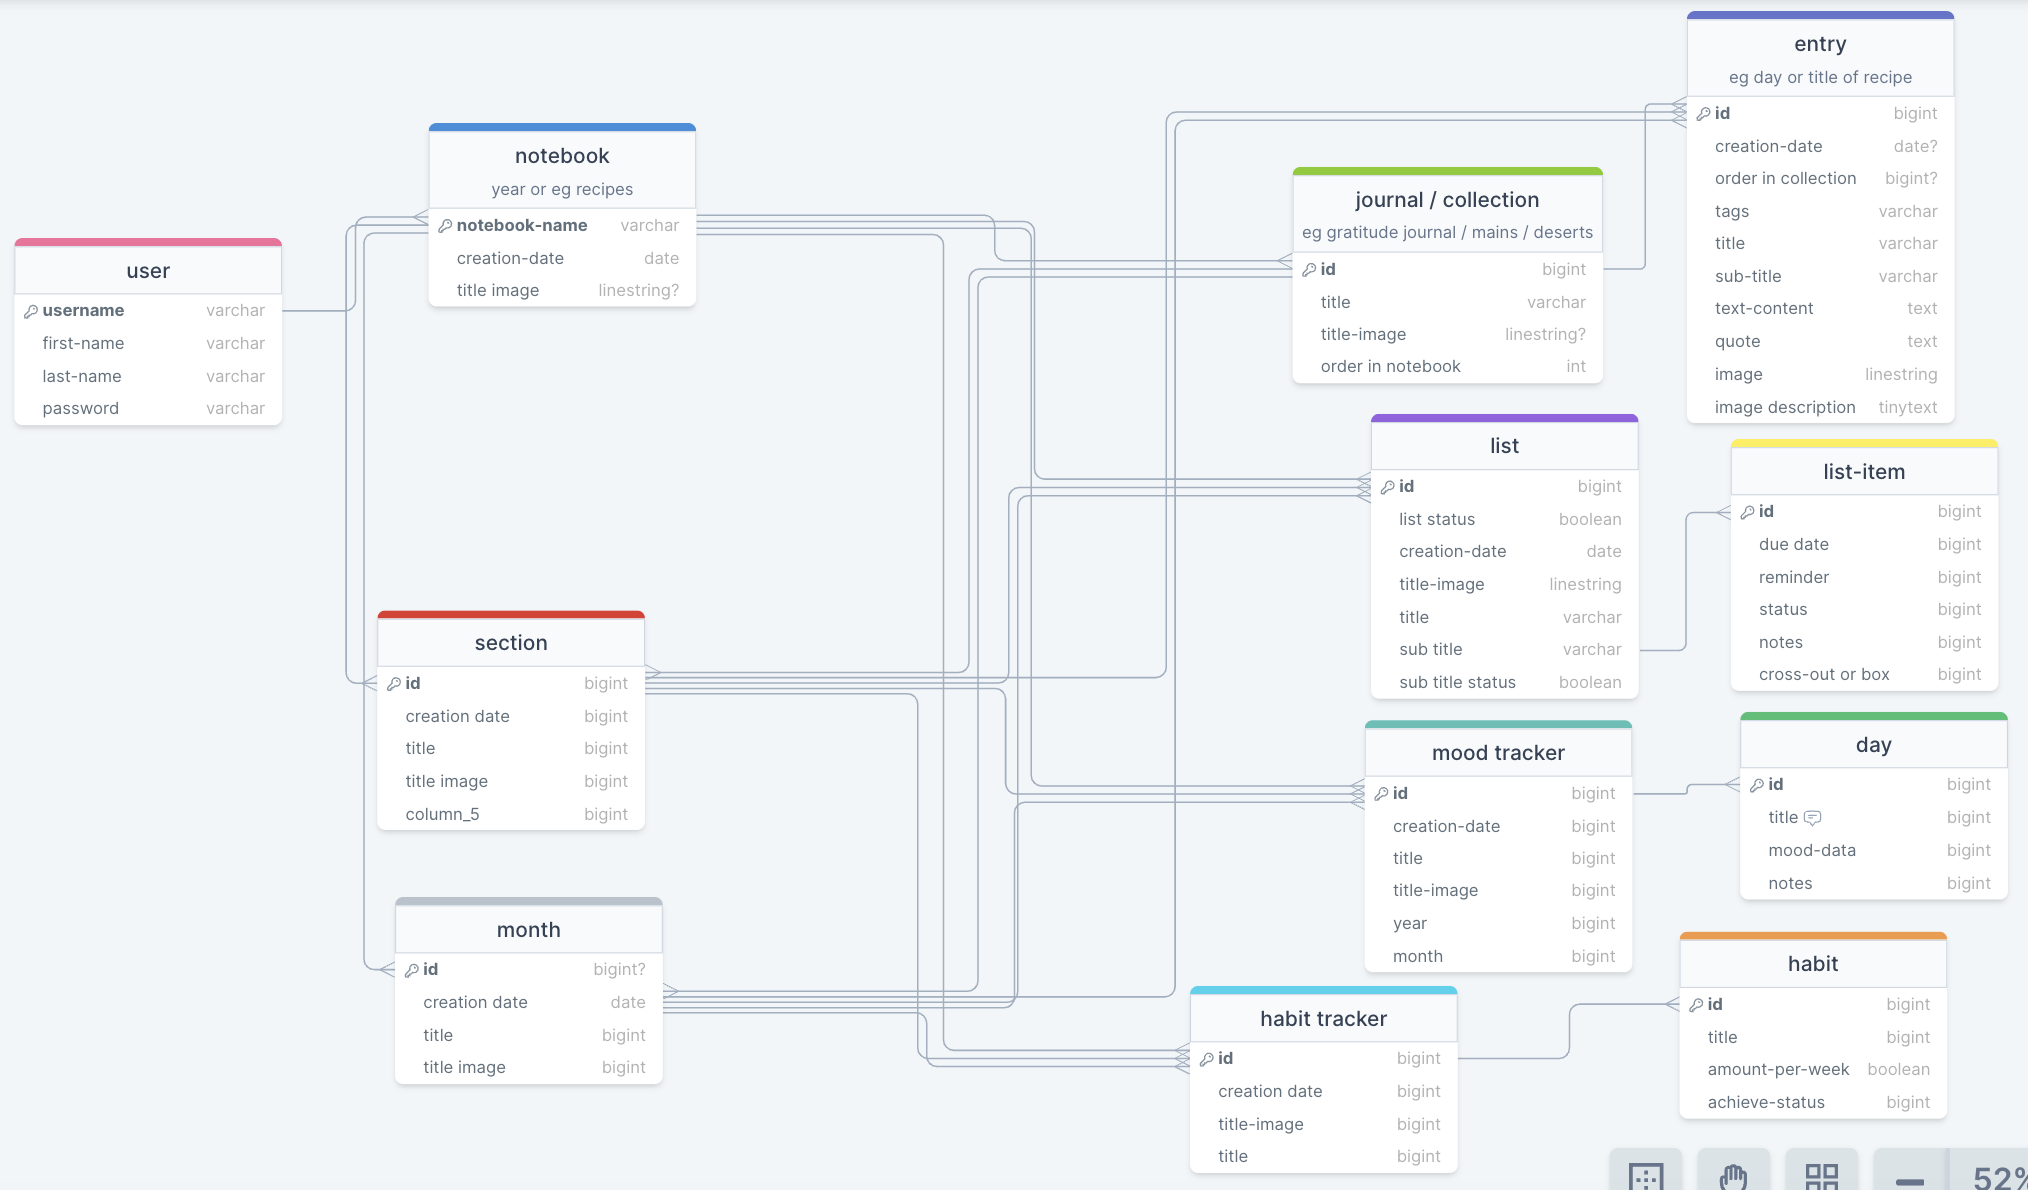
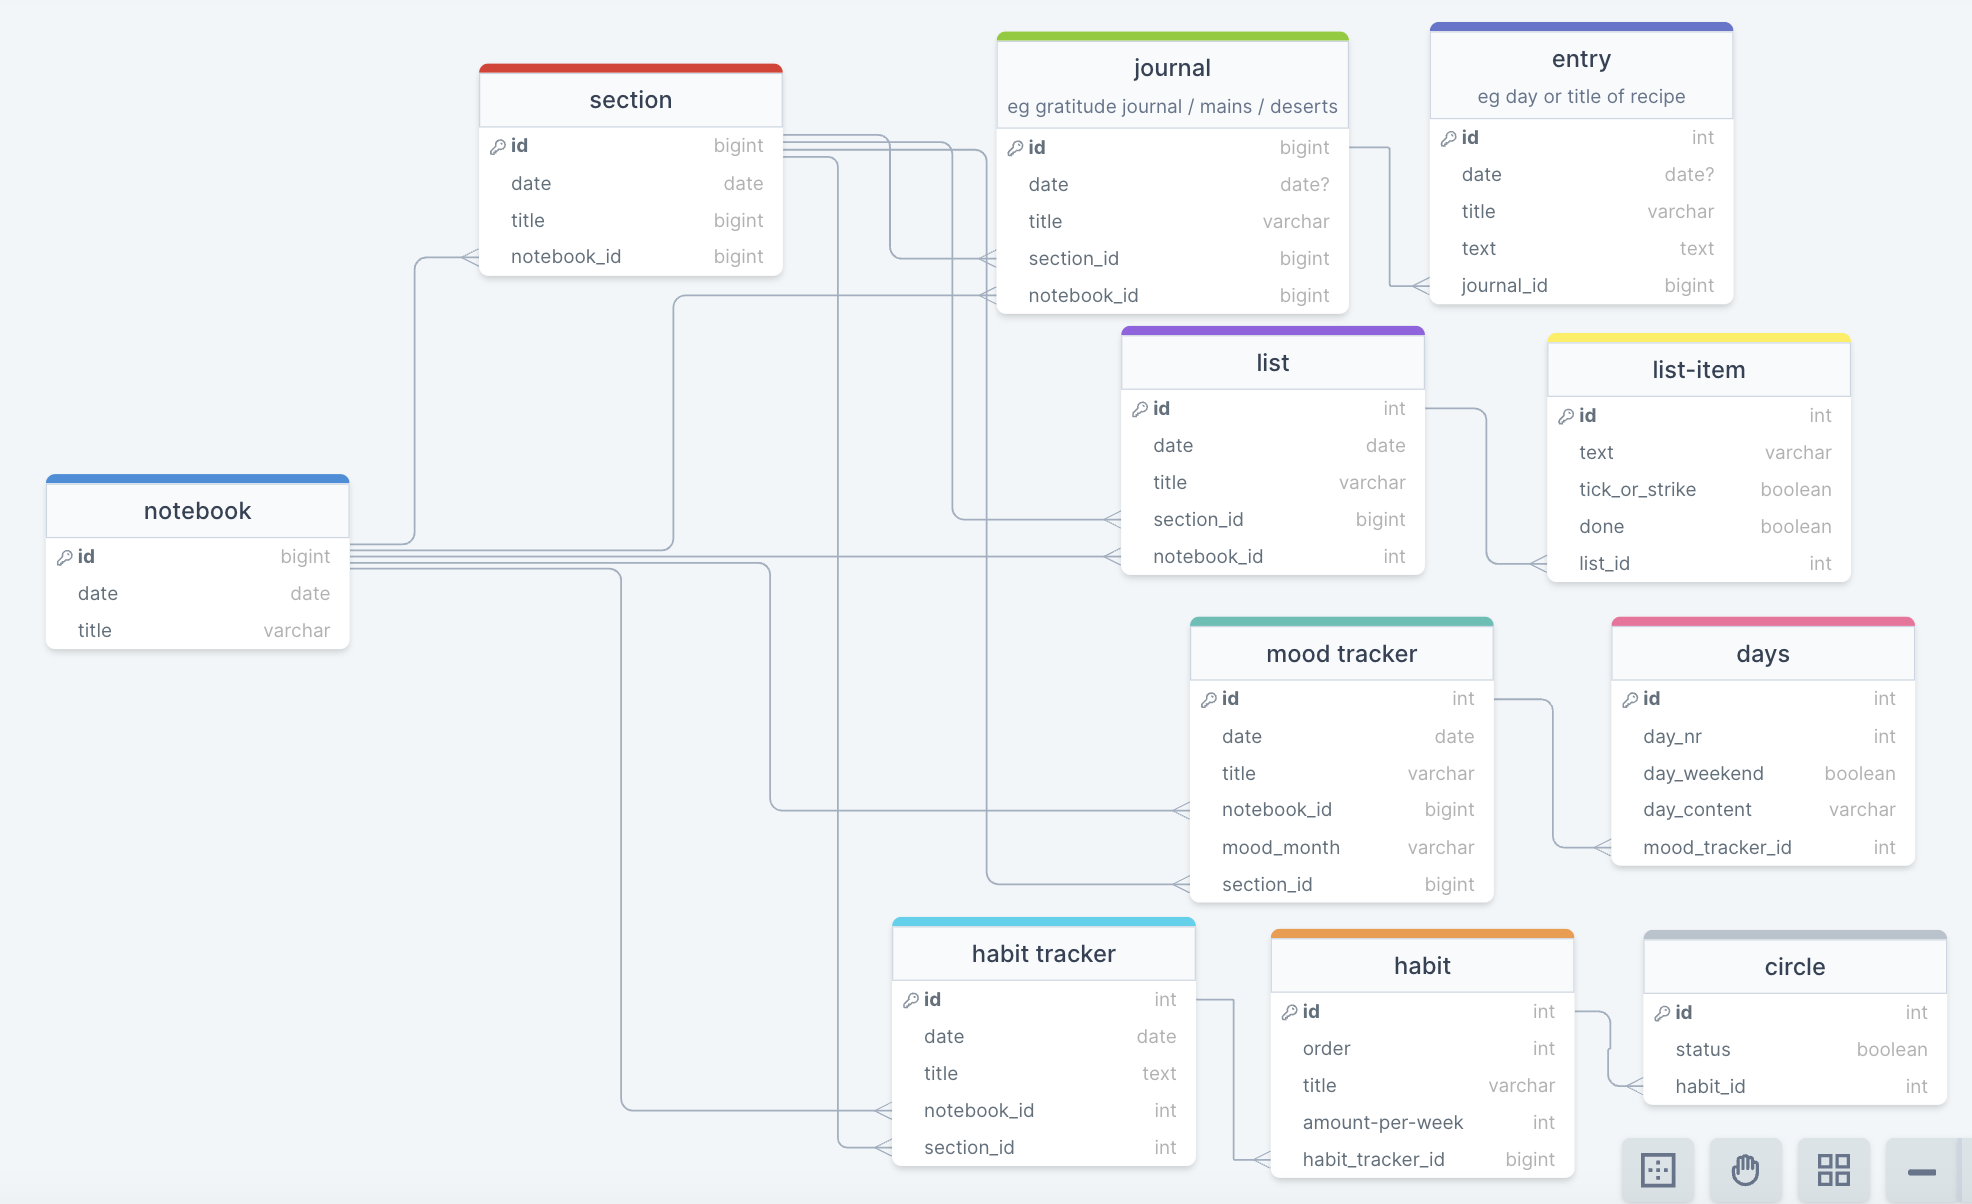
Proposal for journal/habit tracker/mood tracker app

diff --git a/README.md b/README.md
@@ -189,8 +189,6 @@ For the mood tracker I would like to use a date utility API to generate the days
 
 ### Endpoints
 
-List endpoints that your server will implement, including HTTP methods, parameters, and example responses.
-
 #### http://localhost:8080/api/notebooks
 
 - To get a list of all notebooks, post notebooks, edit notebooks or delete notebooks
@@ -202,25 +200,6 @@ List endpoints that your server will implement, including HTTP methods, paramete
     "date": "11/13/2023, 3:30:00 PM",
     "name": "Gratitude"
 }
-```
-
-#### http://localhost:8080/api/journals/entries
-
-- To get a list of all journal entries, post a new journal entry, edit a journal entry or delete a journal entry
-- GET / POST / PUT / DELETE
-
-```
-[
-  {
-     "id": 1,
-     "date": "11/13/2023, 3:30:00 PM",
-     "title": "17 Nov",
-     "text": "This is a journal entry. There are many variations of passages of Lorem Ipsum available, but the majority have suffered alteration in some form, by injected humour, or randomised words which don't look even slightly believable. If you are going to use a passage of Lorem Ipsum, you need to be sure there isn't anything embarrassing hidden in the middle of text.",
-     "image": "path-to-my-image",
-     "image_description": "Description to my image",
-     "journal_id": 3
-   }
-]
 ```
 
 #### http://localhost:8080/api/sections
@@ -247,18 +226,33 @@ List endpoints that your server will implement, including HTTP methods, paramete
 ```
 [
   {
-     "id": 1,
-     "date": "11/13/2023, 3:30:00 PM",
-     "title": "Gratitude",
-     "section_id": "3",
-     "notbooke_id": "1"
-   }
-]
+    "id": 1,
+    "date": "11/13/2023, 3:30:00 PM",
+    "title": "Gratitude",
+    "section_id": "3",
+    "notebook_id": "1"
+  },
+];
+```
+
+#### http://localhost:8080/api/entries
+
+- to get a list of all entries, add a new entry, edit an entry or delete an entry
+- GET / POST / PUT / DELETE
+
+```
+      {
+        "id": 1,
+        "date": "11/13/2023, 3:30:00 PM",
+        "title": "17 Nov",
+        "text": "This is a journal entry. There are many variations of passages of Lorem Ipsum available, but the majority have suffered alteration in some form, by injected humour, or randomised words which don't look even slightly believable. If you are going to use a passage of Lorem Ipsum, you need to be sure there isn't anything embarrassing hidden in the middle of text.",
+        journal_id: 3,
+      };
 ```
 
 #### http://localhost:8080/api/mood-trackers
 
-- to get a list of all mood-trackers, get one mood-tracker, add a new mood-tracker, edit a mood-tracker or delete a mood-tracker
+- to get a list of all mood-trackers, get one specific mood-tracker, add a new mood-tracker, edit a mood-tracker or delete a mood-tracker
 - GET / POST / PUT / DELETE
 
 ```
@@ -269,23 +263,26 @@ List endpoints that your server will implement, including HTTP methods, paramete
      "title": "April",
      "notbooke_id": "5",
      "mood_month": "November",
-     "days_of_month": [
-                {
-                  "day_nr": 1,
-                  "day_weekend": true,
-                  "day_content": "U+1F600"
-                  "day_notes": "Some more info about day1."
-                },
-                {
-                  "day_nr": 2,
-                  "day_weekend": false,
-                  "day_content": "U+1F600"
-                  "day_notes": "Some more info about day2."
-                },
-                // etc, for each day of the "mood_month"...
-     ]
+
    }
 ]
+```
+
+#### http://localhost:8080/api/mood-days
+
+- to get days or edit a days
+- GET / PUT
+
+```
+[
+  {
+    "day_nr": 1,
+    "day_weekend": true,
+    "day_content": "U+1F600",
+    "day_notes": "Some more info about day1.",
+  },
+  // etc, for each day of the "mood_month"...
+];
 ```
 
 #### http://localhost:8080/api/habit-trackers
@@ -296,36 +293,50 @@ List endpoints that your server will implement, including HTTP methods, paramete
 ```
 [
   {
-    id: 1,
-    date: "11/13/2023, 3:30:00 PM",
-    title: "WC 5 November",
-    notebook_id: "5",
-    section_id: "4",
-    habits: [
-      {
-        id: 1,
-        order: 1,
-        title: "U+1F600",
-        amount_per_week: 4,
-        circles: [
-          {
-            id: 1,
-            done: true,
-          },
-          {
-            id: 2,
-            done: true,
-          },
-        ],
-      },
-    ],
+    "id": 1,
+    "date": "11/13/2023, 3:30:00 PM",
+    "title": "WC 5 November",
+    "notebook_id": "5",
+    "section_id": "4",
   },
 ];
 ```
 
+#### http://localhost:8080/api/habits
+
+- To access data of habits, add a new habit, edit a habit or delete a habit
+- GET / POST / PUT / DELETE
+
+```
+[
+  {
+    "id": 1,
+    "order": 1,
+    "title": "go for a run",
+    "amount_per_week": 2,
+    "habit_tracker_id": 1
+  }
+]
+```
+
+#### http://localhost:8080/api/circles
+
+- To access data of the circles of each habit (GET), set the amoung of circles (POST), edit the "done" status of a circle (true or false)
+- amount of circles per habit depends on what is set in the habit as "amount_per_week"
+
+```
+[
+  {
+    "id": 1,
+    "done": true,
+    "habit_id": 1,
+  }
+]
+```
+
 #### http://localhost:8080/api/lists
 
-- To get a list of all lists, get one list, add a new list edit a list or delete a list
+- To get a list of lists, get one list, add a new list edit a list or delete a list
 - GET / POST / PUT / DELETE
 
 ```
@@ -334,60 +345,113 @@ List endpoints that your server will implement, including HTTP methods, paramete
     id: 1,
     date: "11/13/2023, 3:30:00 PM",
     title: "To Do Today",
-    notebook_id: "5",
     section_id: "4",
-    list_groups: [
-      {
-        id: 1,
-        title: "work",
-        notes: "Some notes about the work list group.",
-        list_items: [
-          {
-            id: 1,
-            tick_or_strike: true,
-            status: true,
-            text: "phone dad",
-          },
-          {
-            id: 2,
-            done: true,
-          },
-        ],
-      },
-    ],
-  },
-];
+    notebook_id: "5",
+  }
+]
 ```
 
-#### http://localhost:8080/notebooks/:notebook-id/journals/:journal-id/:journal-entry-id
+#### http://localhost:8080/api/list-items
 
-- Page of one specific journal entry in a notebook
+- To get a list of all list items for a specific list, add a new list item, edit a list item or delete a list item
+- GET / POST / PUT / DELETE
 
-#### http://localhost:8080/notebooks/:notebook-id/habit-trackers
-
-#### http://localhost:8080/notebooks/:notebook-id/mood-trackers
-
-#### http://localhost:8080/notebooks/:notebook-id/lists
-
-- Page of all mood trackers/habit trackers/lists from one notebook, as a collapsed navigation
-
-#### http://localhost:8080/notebooks/:notebook-id/sections/:section-id
-
-- Page of all journal entries/mood trackers/habit trackers/lists from one section in one notebook
-
-#### http://localhost:8080/notebooks/:notebook-id/journals/:journal-id
-
-- Page of all entries from one journal in one notebook in blog format
+```
+      {
+        "id": 1,
+        "text": "call dad",
+        "tick-or-strike": true,
+        "done": true,
+        "list_id": 3
+      }
+```
 
 ### Auth
 
-Does your project include any login or user profile functionality? If so, describe how authentication/authorization will be implemented.
-
-- Log-in with password
+I would like to add log-in functinality in the future, but not for this sprint.
 
 ## Roadmap
 
-Scope your project as a sprint. Break down the tasks that will need to be completed and map out timeframes for implementation. Think about what you can reasonably complete before the due date. The more detail you provide, the easier it will be to build.
+### 13 Nov
+
+Proposal first draft
+
+### 14 Nov
+
+- Finalise proposal
+- Create some seed data for
+  - http://localhost:8080/api/notebooks
+  - http://localhost:8080/api/sections
+  - http://localhost:8080/api/journals
+  - http://localhost:8080/api/entries
+  - http://localhost:8080/api/mood-trackers
+  - http://localhost:8080/api/mood-days
+  - http://localhost:8080/api/habit-trackers
+  - http://localhost:8080/api/habits
+  - http://localhost:8080/api/circles
+  - http://localhost:8080/api/lists
+  - http://localhost:8080/api/list-items
+
+### 15 Nov
+
+- Set up API end-points on back-end, see above
+- Set up pages and routes on front-end
+
+### 16 Nov
+
+- Header component (logo with link, background, border-bottom)
+- Home page component with list of notebook titles as links
+- Footer navigation component all 5 icons. Icons in state so they’re only displayed when needed?
+
+### 7 Nov
+
+- Industry project
+- Navigation component. Displays what page you’re on. Chevron on right to get dropdown menu
+
+### 18 Nov
+
+- Dropdown menu component. Expandable sections populated with titles. Links.
+- Create list component
+
+### 19 Nov
+
+- Create add notebook component. Button sends POST request to API endpoint.
+- Create page that shows all entries from one notebook
+- Create page that shows all lists from one notebook
+- Create page that shows all mood trackers from one notebook
+- Create page that shows all habit trackers from one notebook
+
+### 20 Nov
+
+- Create page that shows all notebook pages from a certain month
+- Create page that shows all notebook pages from a certain section
+- Create page that shows all entries from a specific journal
+
+### 21 Nov
+
+- Create journal entry component
+- Create add list component
+- Create add mood tracker component
+
+### 22 Nov
+
+- Create add stuffs component. Link to each create page.
+
+### 23 Nov
+
+- Create add journal component
+- Create add habit tracker component
+
+### 24 Nov
+
+- Create habit tracker component
+- Create mood tracker component
+- Create habit component
+- Create add journal entry component
+
+### 25/26 Nov
+
+- Bug fixes and styling
 
 ## Nice-to-haves
 
@@ -406,8 +470,7 @@ Scope your project as a sprint. Break down the tasks that will need to be comple
 
 #### Home
 
-- Ability to build your own colour scheme / chose own fonts
-- Option in for certain items to be displayed in menu as quick link?
+- Ability to set your own colour scheme / chose own fonts
 - Choose which libraries, notebooks, collections, or pages you want to display on homepage (tick option: show on homepage)
 
 #### Notebooks
@@ -420,9 +483,10 @@ Scope your project as a sprint. Break down the tasks that will need to be comple
 
 - Option to display on calendar or not
 - If list/item has a date, option to send reminder to phone as alert
-- A list item can have sub list items
+- Lists can have subtitles with groups of lists
 - Optional due date per list or item
 - In progress option for when do to is started (colour of tickbox?)
+- can add images
 
 #### Habits
 
@@ -450,7 +514,7 @@ Scope your project as a sprint. Break down the tasks that will need to be comple
 - Can display when you wrote a journal entry and link to them (toggle on and off on main calendar)
 - To dos appear on calendar. Different appearance for active to dos that are done and not
 
-#### Nth: Libraries
+#### Libraries
 
 - Are a collection of notebooks
 - Can have a title image, or display collection of notebook title images/previews
